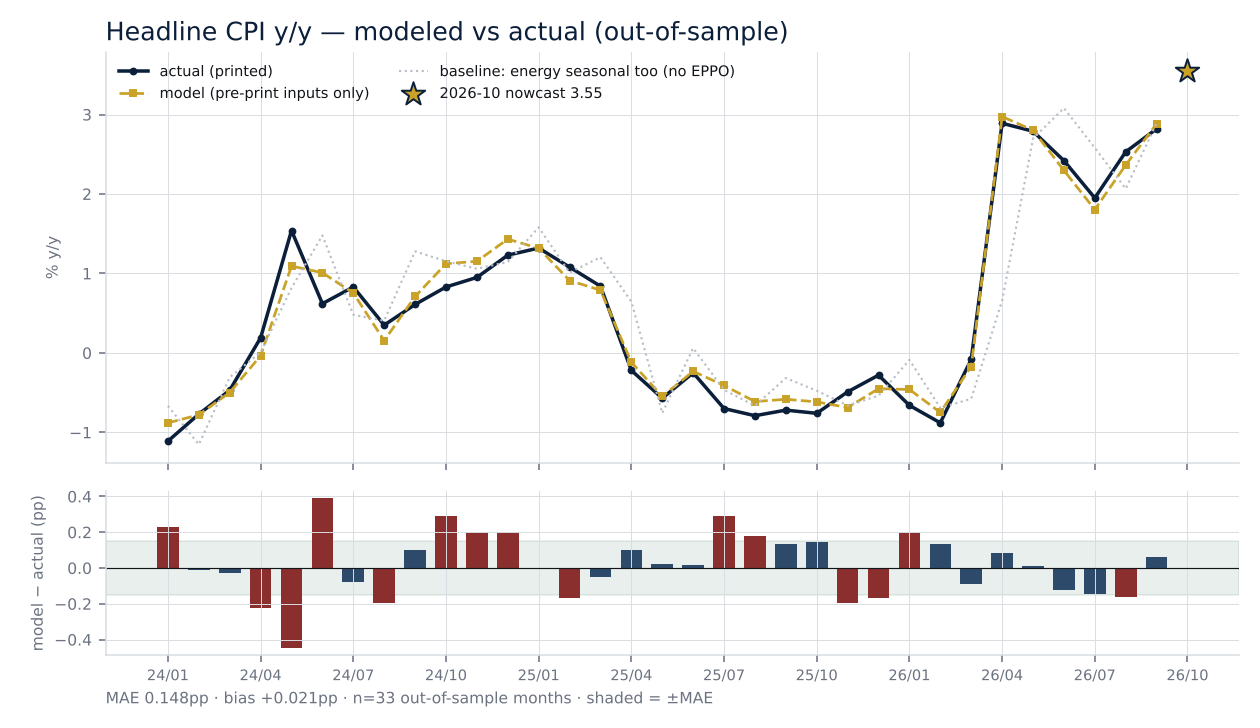
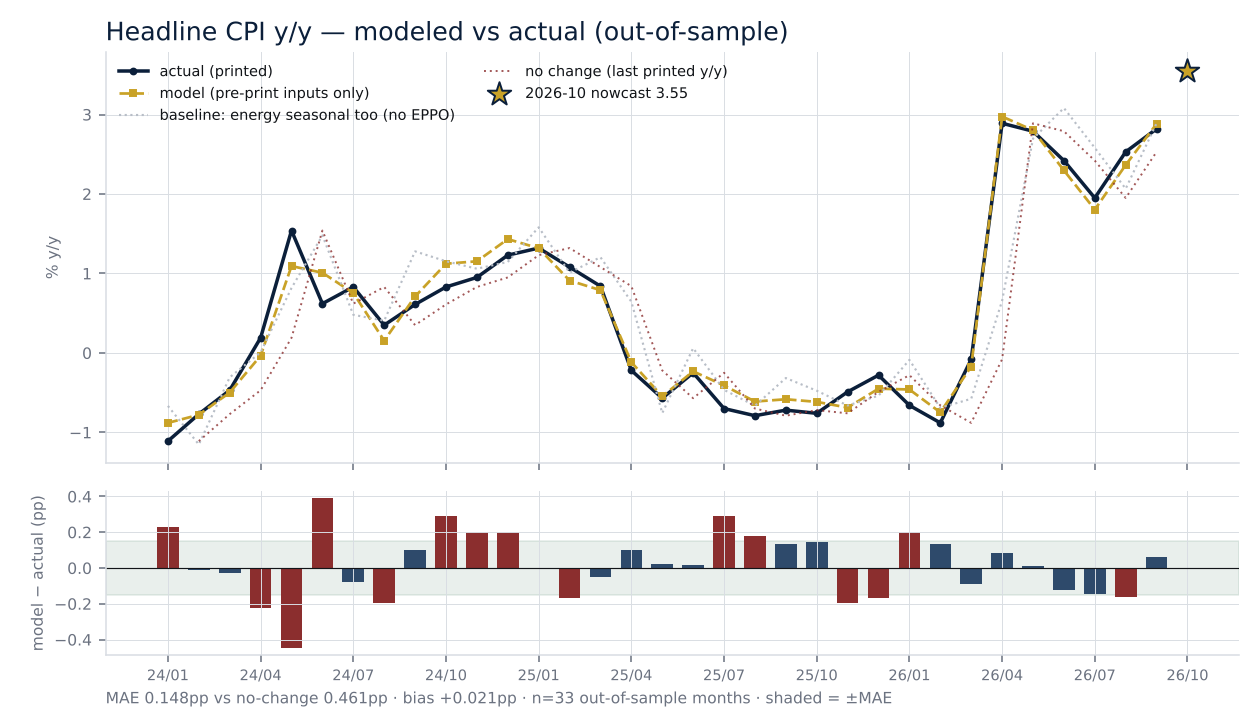
outputs: 2026-11-03

Changed region(s): [[0.1238, 0.0907, 0.5881, 0.1813], [0.1548, 0.9368, 0.7119, 0.967]]

diff --git a/index.html b/index.html
@@ -173,10 +173,11 @@ async function main(){
 const CBS={us:{label:'US · Fed',cb:'FOMC'},th:{label:'TH · BoT',cb:'MPC'},jp:{label:'JP · BOJ',cb:'BOJ'}};let MACRO={},NOW={};
 function stanceCls(l){return /hawk/.test(l||'')?'dn':/dove/.test(l||'')?'up':'mut'}
 function trackChart(track,key,title,cons){const W=420,H=150,L=40,R=58,T=18,B=24;const pts=track.filter(t=>t.month);if(!pts.length)return'';
- const vals=pts.flatMap(t=>[t['actual_'+key],t['predicted_'+key],t['backtest_'+key]]).filter(v=>v!=null).concat(cons!=null?[cons]:[]);let lo=Math.min(...vals),hi=Math.max(...vals);const pad=(hi-lo)*0.15||0.5;lo-=pad;hi+=pad;
+ const vals=pts.flatMap(t=>[t['actual_'+key],t['predicted_'+key],t['backtest_'+key],t['naive_'+key]]).filter(v=>v!=null).concat(cons!=null?[cons]:[]);let lo=Math.min(...vals),hi=Math.max(...vals);const pad=(hi-lo)*0.15||0.5;lo-=pad;hi+=pad;
  const X=i=>L+i/(pts.length-1)*(W-L-R),Y=v=>T+(hi-v)/(hi-lo)*(H-T-B);
  const act=pts.map((t,i)=>t['actual_'+key]!=null?X(i).toFixed(1)+','+Y(t['actual_'+key]).toFixed(1):null).filter(Boolean).join(' ');
  const bt=pts.map((t,i)=>t['backtest_'+key]!=null?X(i).toFixed(1)+','+Y(t['backtest_'+key]).toFixed(1):null).filter(Boolean).join(' ');
+ const nv=pts.map((t,i)=>t['naive_'+key]!=null?X(i).toFixed(1)+','+Y(t['naive_'+key]).toFixed(1):null).filter(Boolean).join(' ');
  const pr=pts.map((t,i)=>t['predicted_'+key]!=null?X(i).toFixed(1)+','+Y(t['predicted_'+key]).toFixed(1):null).filter(Boolean).join(' ');
  const ticks=[lo+pad,(lo+hi)/2,hi-pad].map(v=>`<text x="${L-6}" y="${Y(v).toFixed(1)}" text-anchor="end" dominant-baseline="central" fill="#6B7280" font-size="10">${v.toFixed(1)}</text><line x1="${L}" x2="${W-R}" y1="${Y(v).toFixed(1)}" y2="${Y(v).toFixed(1)}" stroke="#E6E8EB"/>`).join('');
  const zero=(lo<0&&hi>0)?`<line x1="${L}" x2="${W-R}" y1="${Y(0).toFixed(1)}" y2="${Y(0).toFixed(1)}" stroke="#B8BEC7" stroke-dasharray="2 2"/>`:'';
@@ -184,11 +185,11 @@ function trackChart(track,key,title,cons){const W=420,H=150,L=40,R=58,T=18,B=24;
  const fc=pts.map((t,i)=>t.is_forecast&&t['predicted_'+key]!=null?`<circle cx="${X(i).toFixed(1)}" cy="${Y(t['predicted_'+key]).toFixed(1)}" r="4.5" fill="#C9A227" stroke="#0B1F3A" stroke-width="1"/><text x="${(X(i)-8).toFixed(1)}" y="${(Y(t['predicted_'+key])-9).toFixed(1)}" text-anchor="end" fill="#0B1F3A" font-size="11" font-weight="600">${t['predicted_'+key].toFixed(2)}</text>`:'').join('');
  const ci=pts.findIndex(t=>t.is_forecast);const consM=(cons!=null&&ci>=0)?`<line x1="${(X(ci)-7).toFixed(1)}" x2="${(X(ci)+7).toFixed(1)}" y1="${Y(cons).toFixed(1)}" y2="${Y(cons).toFixed(1)}" stroke="#6B7280" stroke-width="2"/><text x="${(X(ci)+9).toFixed(1)}" y="${Y(cons).toFixed(1)}" dominant-baseline="central" fill="#6B7280" font-size="10">cons ${cons}</text>`:'';
  const prDots=pts.map((t,i)=>!t.is_forecast&&t['predicted_'+key]!=null?`<circle cx="${X(i).toFixed(1)}" cy="${Y(t['predicted_'+key]).toFixed(1)}" r="2.5" fill="#C9A227"/>`:'').join('');
- const tid='t'+(window.TRACKS=window.TRACKS||[]).length;window.TRACKS.push({track,key,title,cons});return`<div class="zoom" title="click to expand" onclick="zoomTrack('${tid}')"><div class="lbl" style="margin-bottom:2px">${title}</div><svg width="100%" viewBox="0 0 ${W} ${H}" style="display:block;max-width:${W}px">${ticks}${zero}<polyline pathLength="1" fill="none" stroke="#0B1F3A" stroke-width="1.8" points="${act}"/>${bt?`<polyline fill="none" stroke="#8A6D1F" stroke-width="1.3" stroke-dasharray="2 3" points="${bt}"/>`:''}${pr?`<polyline fill="none" stroke="#C9A227" stroke-width="1.4" stroke-dasharray="4 3" points="${pr}"/>`:''}${prDots}${consM}${fc}${labels}</svg><div class="mono mut" style="font-size:11.5px">navy actual · dark-gold dotted = pseudo-OOS backtest (pre-print inputs only) · gold dashed = live model · ◉ forecast · grey tick consensus</div></div>`}
+ const tid='t'+(window.TRACKS=window.TRACKS||[]).length;window.TRACKS.push({track,key,title,cons});return`<div class="zoom" title="click to expand" onclick="zoomTrack('${tid}')"><div class="lbl" style="margin-bottom:2px">${title}</div><svg width="100%" viewBox="0 0 ${W} ${H}" style="display:block;max-width:${W}px">${ticks}${zero}<polyline pathLength="1" fill="none" stroke="#0B1F3A" stroke-width="1.8" points="${act}"/>${nv?`<polyline fill="none" stroke="#A23B3B" stroke-opacity="0.55" stroke-width="1" stroke-dasharray="1 3" points="${nv}"/>`:''}${bt?`<polyline fill="none" stroke="#8A6D1F" stroke-width="1.3" stroke-dasharray="2 3" points="${bt}"/>`:''}${pr?`<polyline fill="none" stroke="#C9A227" stroke-width="1.4" stroke-dasharray="4 3" points="${pr}"/>`:''}${prDots}${consM}${fc}${labels}</svg><div class="mono mut" style="font-size:11.5px">navy actual · dark-gold dotted = pseudo-OOS backtest (pre-print inputs only) · red dotted = no change (last printed y/y) — the bar to beat · gold dashed = live model · ◉ forecast · grey tick consensus</div></div>`}
 function nowcastPanel(n,cc){if(!n||!n.data)return`<div class="h">Nowcast</div><div class="empty">Not yet published for ${CBS[cc].label}.</div>`;const d=n.data;
  return`<div style="display:flex;justify-content:space-between;align-items:baseline;flex-wrap:wrap"><span class="h">${d.series||'Nowcast'}</span><span class="mono mut" style="font-size:13.5px">${d.print_date?'print '+d.print_date:''}</span></div>
  ${d.status==='insufficient_data'?`<div class="mono mut">insufficient data — missing: ${(d.inputs_missing||[]).join(', ')}</div>`:`<div class="grid3" style="margin:8px 0"><div><div class="lbl">Ours</div><div class="mono" style="font-size:26px;color:var(--navy)">${fmt(d.ours,2)}</div></div><div><div class="lbl">Consensus</div><div class="mono mut" style="font-size:26px">${fmt(d.consensus,2)}</div></div><div><div class="lbl">Prior</div><div class="mono mut" style="font-size:26px">${fmt(d.prior,2)}</div></div></div><div class="mono" style="font-size:13.5px"><span class="${cls(d.delta_1d)}">Δ1d ${d.delta_1d==null?'—':(d.delta_1d>=0?'+':'')+Number(d.delta_1d).toFixed(2)}</span> <span class="mut">${d.driver||''}</span></div>${d.core?`<div class="mono" style="font-size:13.5px;margin-top:4px">core: ours <b>${fmt(d.core.ours,2)}</b> · cons ${fmt(d.core.consensus,2)} · prior ${fmt(d.core.prior,2)}${d.ours_mm!=null?` · headline m/m ${(d.ours_mm>=0?'+':'')+d.ours_mm}`:''}${d.range?` · range ${fmt(d.range.low,2)}–${fmt(d.range.high,2)}`:d.sensitivity?` · range ${Math.min(...Object.values(d.sensitivity)).toFixed(2)}–${Math.max(...Object.values(d.sensitivity)).toFixed(2)}`:''}${d.report?` · <a href="${d.report}" target="_blank">full report ↗</a>`:''}</div>`:''}`}
- ${d.backtest_stats&&d.backtest_stats.n?`<div class="mono mut" style="font-size:13px;margin-top:6px">backtest ${d.backtest_stats.n} months OOS · headline MAE ${fmt(d.backtest_stats.mae_headline,2)} bias ${fmt(d.backtest_stats.bias_headline,2)}${d.backtest_stats.baseline_mae_headline!=null?` (no-fuel baseline ${fmt(d.backtest_stats.baseline_mae_headline,2)})`:''} · core MAE ${fmt(d.backtest_stats.mae_core,2)} bias ${fmt(d.backtest_stats.bias_core,2)}</div>`:''}${d.track?`<div class="grid2" style="margin:10px 0">${trackChart(d.track,'headline','Headline y/y — actual vs model',d.consensus)}${trackChart(d.track,'core','Core y/y — actual vs model',d.core?.consensus)}</div>`:''}
+ ${d.backtest_stats&&d.backtest_stats.n?`<div class="mono mut" style="font-size:13px;margin-top:6px">backtest ${d.backtest_stats.n} months OOS · headline MAE ${fmt(d.backtest_stats.mae_headline,2)} bias ${fmt(d.backtest_stats.bias_headline,2)}${d.backtest_stats.baseline_mae_headline!=null?` (no-fuel baseline ${fmt(d.backtest_stats.baseline_mae_headline,2)})`:''} · core MAE ${fmt(d.backtest_stats.mae_core,2)} bias ${fmt(d.backtest_stats.bias_core,2)}${d.backtest_stats.naive_mae_headline!=null?` · <b>vs no-change</b>: headline ${fmt(d.backtest_stats.naive_mae_headline,2)}, core ${fmt(d.backtest_stats.naive_mae_core,2)}${d.backtest_stats.core_has_skill===false?' → <span class="dn">core: no skill over no-change</span>':''}`:''}</div>`:''}${d.track?`<div class="grid2" style="margin:10px 0">${trackChart(d.track,'headline','Headline y/y — actual vs model',d.consensus)}${trackChart(d.track,'core','Core y/y — actual vs model',d.core?.consensus)}</div>`:''}
  ${d.components?`<div style="overflow-x:auto;margin-top:8px"><table><thead><tr><th>Component</th><th>Weight</th><th>Ours m/m</th><th>Contrib</th><th style="text-align:left">Status</th></tr></thead><tbody>${d.components.map(c=>`<tr><td>${c.name}</td><td>${fmt(c.weight,1)}%</td><td class="${cls(c.mm)}">${c.mm==null?'—':(c.mm>=0?'+':'')+Number(c.mm).toFixed(2)}</td><td class="${cls(c.contrib_bp)}">${c.contrib_bp==null?'—':(c.contrib_bp>=0?'+':'')+Number(c.contrib_bp).toFixed(0)+'bp'}</td><td style="text-align:left" class="${c.status==='ok'?'up':c.status==='missing'?'dn':'mut'}">${c.status||''}${c.note?' · '+c.note:''}</td></tr>`).join('')}</tbody></table></div>`:''}`}
 function cbPanel(c,cc){if(!c||!c.data)return`<div class="h">${CBS[cc].cb} · member agents</div><div class="empty">No member-agent run published yet for ${CBS[cc].label}.</div>`;const d=c.data,p=d.predicted||{};
  const dots=(d.members||[]).map(m=>`<span class="dot ${/hawk/.test(m.stance)?'hawk':/dove/.test(m.stance)?'dove':'mid'}" title="${m.name}: ${m.stance}"></span>`).join('');
@@ -229,6 +230,7 @@ ${fig('headline',`Pre-print rule: energy observed (EPPO/ERC/LPG), core and raw f
 <table><thead><tr><th style="text-align:left">Test</th><th>Result</th><th style="text-align:left">Note</th></tr></thead><tbody>
 <tr><td style="text-align:left">Headline y/y, energy observed — since 2024 (chart)</td><td>MAE ${f(S.headline.mae_2024,3)}pp</td><td style="text-align:left">${S.headline.n_2024} OOS months · baseline without EPPO ${f(S.headline.baseline_mae_2024,3)}pp</td></tr>
 <tr><td style="text-align:left">Headline y/y, energy observed — full history</td><td>MAE ${f(S.headline.mae,3)}pp</td><td style="text-align:left">${S.headline.n} OOS months · bias ${(S.headline.bias>=0?'+':'')+f(S.headline.bias,3)} · worst ${f(S.headline.worst,2)} (2022 energy shock) · within ±0.15pp ${S.headline.within_015}%</td></tr>
+<tr><td style="text-align:left"><b>No change (last printed y/y) — the bar to beat</b></td><td>MAE ${f(S.headline.naive_mae,3)}pp</td><td style="text-align:left">since 2024 ${f(S.headline.naive_mae_2024,3)}pp · the model is ${f(S.headline.naive_mae/S.headline.mae,1)}× better → real skill</td></tr>
 <tr><td style="text-align:left">Baseline, no live energy — full history</td><td>MAE ${f(S.headline.baseline_mae,3)}pp</td><td style="text-align:left">the fuel feed is worth ${f(S.headline.baseline_mae-S.headline.mae,2)}pp of MAE</td></tr>
 <tr><td style="text-align:left">Decomposition identity</td><td>|resid| ${f(S.headline.agg_identity,3)}pp</td><td style="text-align:left">weights × block m/m rebuild the official headline every month</td></tr>
 </tbody></table>
@@ -240,8 +242,10 @@ ${fig('core',`Live rule: core m/m = same-month seasonal MEDIAN over prior years 
 <tr><td style="text-align:left"><b>Seasonal median (live, since 3 Nov 2026)</b></td><td><b>${f(S.core.mae,3)}pp</b></td><td>${S.core.within_015}%</td><td style="text-align:left">${S.core.n} OOS months · bias ${(S.core.bias>=0?'+':'')+f(S.core.bias,3)} · since 2024 (chart): ${f(S.core.mae_2024,3)}pp</td></tr>
 <tr><td style="text-align:left">Seasonal mean (previous rule)</td><td>${f(S.core.seasonal_mae,3)}pp</td><td>${S.core.seasonal_within_015}%</td><td style="text-align:left">since 2024: ${f(S.core.seasonal_mae_2024,3)}pp</td></tr>
 <tr><td style="text-align:left">Seasonal + lagged cost pass-through (dropped)</td><td>${f(S.core.pt_mae,3)}pp</td><td>${S.core.pt_within_015}%</td><td style="text-align:left">core m/m = ${f(S.core.beta[0],3)} + ${f(S.core.beta[1],3)}·S + ${f(S.core.beta[2],3)}·(energy+raw food)<sub>t−1</sub> — adds noise, not skill</td></tr>
+<tr><td style="text-align:left"><b>No change (last printed y/y) — the bar to beat</b></td><td><b>${f(S.core.naive_mae,3)}pp</b></td><td>—</td><td style="text-align:left">since 2024 ${f(S.core.naive_mae_2024,3)}pp · live rule beats it in ${S.core.beats_naive_pct}% of months → <b class="dn">${S.core.mae<0.85*S.core.naive_mae?'some skill':'no real skill: core forecast ≈ "core y/y stays put"'}</b></td></tr>
 <tr><td style="text-align:left">Long-run mean</td><td>${f(S.core.flat_mae,3)}pp</td><td>—</td><td style="text-align:left">no seasonality</td></tr>
 </tbody></table>
+<p><b>Read this first:</b> charts of one-step y/y forecasts always look good — each point is chained from the <i>published</i> t−1 index, so 11 of the 12 months in the y/y are already known and the model only has to get one month right. The honest test is the red "no change" line. Headline clears it by a wide margin; core does not.</p>
 <p>Also tested and rejected (<span class="mono">predictor/test_core_ideas.py</span>, 45 OOS months): bottom-up seasonals over 8 core sub-blocks (0.118), last-3-years seasonal (0.108), momentum on the last 3 months' deviation (0.112–0.117), prepared food on concurrent + lagged raw food (0.151; since 2024 0.102, unstable). Median vs mean: better in 3 of 4 years, t ≈ 1.9 — modest, consistent, and the principled choice for a short sample with outlier years.</p>
 ${fig('core_components',`Core m/m and its two largest pieces. Autocorrelation(1) of core m/m ${(S.core_components.autocorr1>=0?'+':'')+f(S.core_components.autocorr1,2)}, std ${f(S.core_components.std,2)}pp: nothing to extrapolate, so core is irreducibly seasonal with pre-print data.`)}
 
@@ -276,6 +280,7 @@ ${fig('contributions',`Weight × block m/m stacked against the printed headline 
 <li><b>Fuel is the edge</b> — one administered price, pass-through ≈ 1, observable daily; it alone explains most of headline m/m and catches the regime shifts (Apr-2026 cap break).</li>
 <li><b>Raw food needs weight calibration</b> to be usable (R² 0.00 → ${f(rw.oos_r2,2)}); eggs and pork, not vegetables, carry the signal.</li>
 <li><b>Electricity is deterministic</b> — a calendar of ERC Ft rounds plus announced subsidies; no regression.</li>
+<li><b>Core has no skill over "no change"</b> (MAE ${f(S.core.mae,3)} vs ${f(S.core.naive_mae,3)}pp). Treat core as a no-edge call unless consensus is far from last month's print.</li>
 <li><b>Core is irreducibly seasonal</b> — its movers are unobservable before the print; FX, gold, food cost-push, momentum and sub-block seasonals do not beat it; the only gain is robustness — the seasonal <i>median</i> cuts core MAE to ${f(S.core.mae,3)}pp vs ${f(S.core.seasonal_mae,3)}pp for the mean.</li>
 <li><b>Methodology:</b> elementary index is Dutot (arithmetic), not Jevons — so monthly means of daily prices are the right fuel input.</li></ul>
 
@@ -319,16 +324,17 @@ function bigAsset(lv,s){const dp=lv.dp??(s?.dp??2),W=1000,H=440,L=40,R=70,T=28,B
 function bigHover(e){const b=window._BIG;if(!b)return;const svg=e.currentTarget,r=svg.getBoundingClientRect(),x=(e.clientX-r.left)/r.width*b.W;let i=Math.round((x-b.L)/(b.W-b.L-b.R)*(b.n-1));i=Math.max(0,Math.min(b.n-1,i));const xh=document.getElementById('xh');xh.style.display='';const l=document.getElementById('xhl'),c=document.getElementById('xhc');l.setAttribute('x1',b.X(i));l.setAttribute('x2',b.X(i));c.setAttribute('cx',b.X(i));c.setAttribute('cy',b.Y(b.c[i]));
  const prev=i>0?b.c[i-1]:null;tipShow(e,`${b.d[i]}<br>${fmt(b.c[i],b.dp)}${prev!=null?` <span style="color:${b.c[i]>=prev?'#9FD3B5':'#F2A5A5'}">${(b.c[i]>=prev?'+':'')+((b.c[i]/prev-1)*100).toFixed(2)}%</span>`:''}`)}
 function zoomAsset(name){const lv=(window.LV_MAP||{})[name],s=(window.SER_MAP||{})[name];if(!lv||!s)return;openModal(bigAsset(lv,s))}
-function bigTrack(o){const{track,key,title,cons}=o,W=1000,H=440,L=50,R=120,T=28,B=36,pts=track.filter(t=>t.month),n=pts.length;const ser=[['actual_'+key,'#0B1F3A','actual',1.8,''],['backtest_'+key,'#8A6D1F','backtest (pre-print)',1.3,'2 3'],['predicted_'+key,'#C9A227','live model',1.4,'4 3']];
+function bigTrack(o){const{track,key,title,cons}=o,W=1000,H=440,L=50,R=120,T=28,B=36,pts=track.filter(t=>t.month),n=pts.length;const ser=[['actual_'+key,'#0B1F3A','actual',1.8,''],['backtest_'+key,'#8A6D1F','backtest (pre-print)',1.3,'2 3'],['naive_'+key,'#A23B3B','no change',1.0,'1 3'],['predicted_'+key,'#C9A227','live model',1.4,'4 3']];
  const vals=pts.flatMap(t=>ser.map(s=>t[s[0]])).filter(v=>v!=null).concat(cons!=null?[cons]:[]);let lo=Math.min(...vals),hi=Math.max(...vals);const pad=(hi-lo)*0.12||0.5;lo-=pad;hi+=pad;
  const X=i=>L+i/(n-1)*(W-L-R),Y=v=>T+(hi-v)/(hi-lo)*(H-T-B);let g='';niceTicks(lo,hi,8).forEach(v=>g+=`<line x1="${L}" x2="${W-R}" y1="${Y(v).toFixed(1)}" y2="${Y(v).toFixed(1)}" stroke="#E6E8EB"/><text x="${L-6}" y="${Y(v).toFixed(1)}" text-anchor="end" dominant-baseline="central" fill="#6B7280" font-size="11" font-family="IBM Plex Mono,monospace">${v.toFixed(2)}</text>`);
  if(lo<0&&hi>0)g+=`<line x1="${L}" x2="${W-R}" y1="${Y(0)}" y2="${Y(0)}" stroke="#B8BEC7" stroke-dasharray="2 2"/>`;
  let lines='',dots='';ser.forEach(([k,col,lab,w,da])=>{const p=pts.map((t,i)=>t[k]!=null?X(i).toFixed(1)+','+Y(t[k]).toFixed(1):null).filter(Boolean);if(p.length>1)lines+=`<polyline fill="none" stroke="${col}" stroke-width="${w}" ${da?`stroke-dasharray="${da}"`:''} points="${p.join(' ')}"/>`;pts.forEach((t,i)=>{if(t[k]!=null)dots+=`<circle cx="${X(i).toFixed(1)}" cy="${Y(t[k]).toFixed(1)}" r="${t.is_forecast&&k.startsWith('pred')?6:2.6}" fill="${col}" ${t.is_forecast&&k.startsWith('pred')?'stroke="#0B1F3A"':''}/>`})});
  let xl='';pts.forEach((t,i)=>{if((i%2===n%2&&i<n-1)||t.is_forecast)xl+=`<text x="${X(i).toFixed(1)}" y="${H-12}" text-anchor="middle" fill="#6B7280" font-size="11">${t.month.slice(2).replace('-','/')}</text>`});
  const ci=pts.findIndex(t=>t.is_forecast);const cm=(cons!=null&&ci>=0)?`<line x1="${(X(ci)-10).toFixed(1)}" x2="${(X(ci)+10).toFixed(1)}" y1="${Y(cons)}" y2="${Y(cons)}" stroke="#6B7280" stroke-width="2.5"/><text x="${(X(ci)+14).toFixed(1)}" y="${Y(cons)}" dominant-baseline="central" fill="#6B7280" font-size="11" font-family="IBM Plex Mono,monospace">consensus ${cons}</text>`:'';
- const last=pts[n-1];const lab=ser.map(([k,col,l])=>last[k]!=null?`<text x="${W-R+8}" y="${Y(last[k])}" dominant-baseline="central" fill="${col}" font-size="11" font-family="IBM Plex Mono,monospace">${l} ${last[k].toFixed(2)}</text>`:'').join('');
+ const last=pts[n-1];const ll=ser.filter(([k])=>last[k]!=null).map(([k,col,l])=>({y:Y(last[k]),col,t:`${l} ${last[k].toFixed(2)}`}));if(cons!=null&&ci>=0&&ci===n-1)ll.push({y:Y(cons),fixed:1});ll.sort((a,b)=>a.y-b.y);for(let j=1;j<ll.length;j++)if(ll[j].y-ll[j-1].y<14)ll[j].y=ll[j-1].y+14;
+ const lab=ll.filter(o=>!o.fixed).map(o=>`<text x="${W-R+8}" y="${o.y.toFixed(1)}" dominant-baseline="central" fill="${o.col}" font-size="11" font-family="IBM Plex Mono,monospace">${o.t}</text>`).join('');
  window._BIGT={X,Y,pts,n,W,L,R,ser};
- return`<div class="h" style="font-size:22px">${title}</div><div class="mono mut" style="font-size:13px;margin-bottom:6px">navy actual · dark-gold dotted backtest (pre-print inputs only) · gold dashed live model · ◉ forecast · grey tick consensus · hover for values</div>
+ return`<div class="h" style="font-size:22px">${title}</div><div class="mono mut" style="font-size:13px;margin-bottom:6px">navy actual · dark-gold dotted backtest (pre-print inputs only) · red dotted no change (last printed y/y) · gold dashed live model · ◉ forecast · grey tick consensus · hover for values</div>
  <svg width="100%" viewBox="0 0 ${W} ${H}" style="display:block" onmousemove="bigTrackHover(event)" onmouseleave="tipHide();document.getElementById('xh').style.display='none'">${g}${lines}${dots}${cm}${lab}${xl}<g id="xh" style="display:none"><line id="xhl" y1="${T}" y2="${H-B}" stroke="#6B7280" stroke-dasharray="2 2"/></g></svg>`}
 function bigTrackHover(e){const b=window._BIGT;if(!b)return;const r=e.currentTarget.getBoundingClientRect(),x=(e.clientX-r.left)/r.width*b.W;let i=Math.round((x-b.L)/(b.W-b.L-b.R)*(b.n-1));i=Math.max(0,Math.min(b.n-1,i));const t=b.pts[i];document.getElementById('xh').style.display='';const l=document.getElementById('xhl');l.setAttribute('x1',b.X(i));l.setAttribute('x2',b.X(i));
  tipShow(e,`<b>${t.month}</b>`+b.ser.map(([k,col,lab])=>t[k]!=null?`<br><span style="color:${col==='#0B1F3A'?'#fff':col}">${lab}</span> ${t[k].toFixed(2)}`:'').join('')+(t.actual_headline!=null&&t['backtest_'+(b.ser[0][0].includes('headline')?'headline':'core')]!=null?'':''))}
